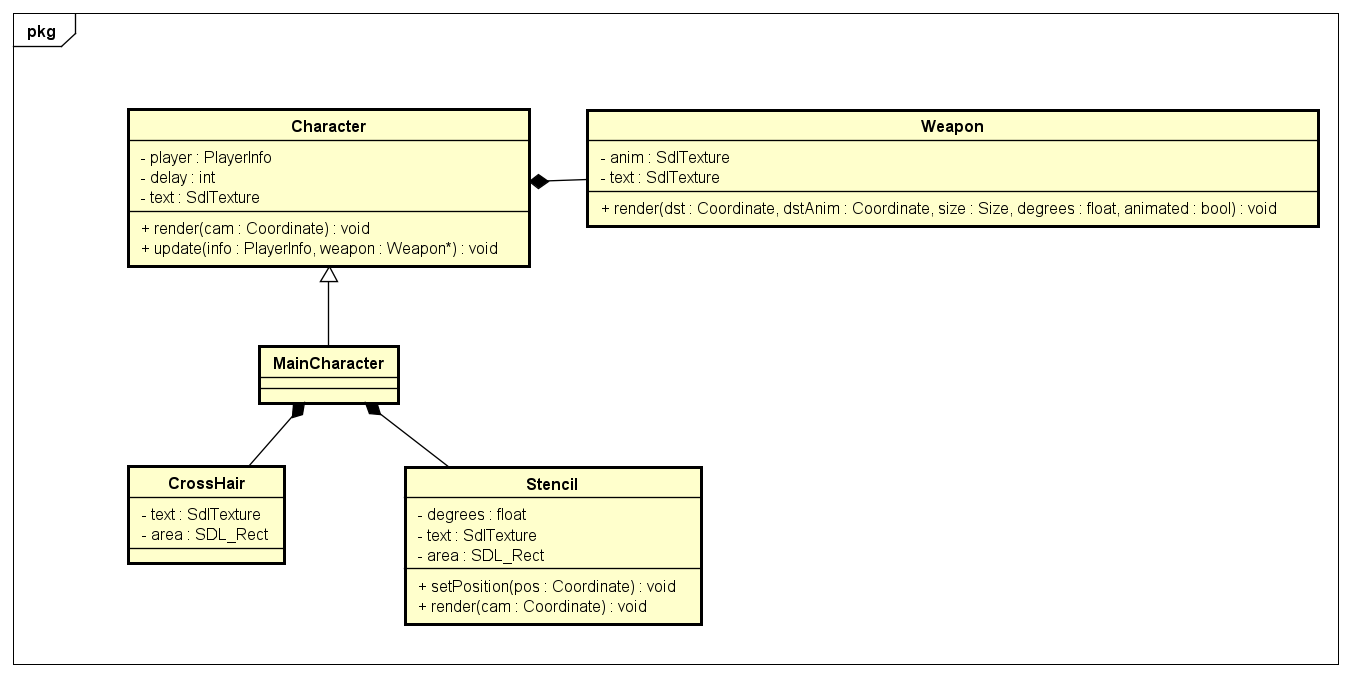
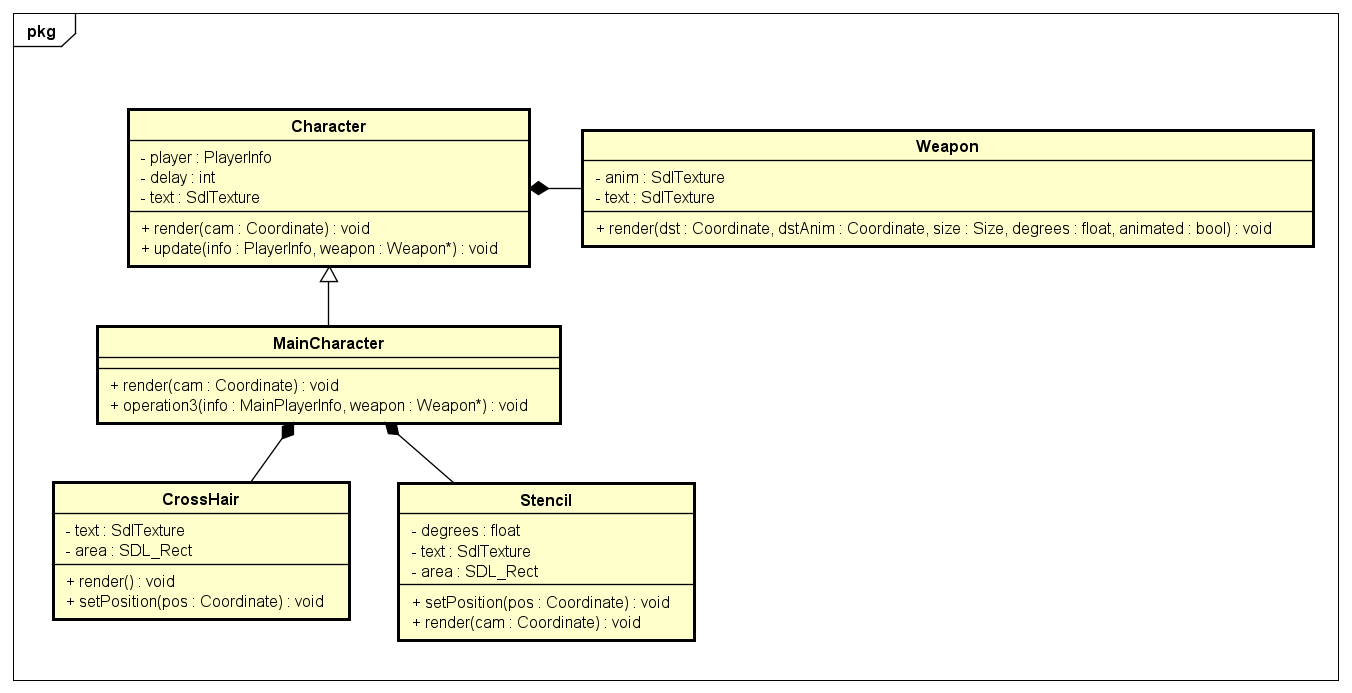
actualizado diagrama cliente

Changed region(s): [[0.0932, 0.1551, 0.9941, 0.4343], [0.0311, 0.4653, 0.5281, 0.9306], [0.0, 0.031, 0.0621, 0.0931]]

diff --git a/informe/DocumentaciónTécnica.md b/informe/DocumentaciónTécnica.md
@@ -74,11 +74,11 @@ Se encarga de la representación básica de un jugador en el motor gráfico. Per
 
 ### Weapon
 
-Esta clase nos permite la representación gráfica de las armas, independientemente del tipo, con sus respectiva animación.
+Esta clase nos permite la representación gráfica de las armas, independientemente del tipo, con su respectiva animación.
 
 ### MainCharacter
 
-Es una clase que hereda de la clase `Character`, la cual difiera de esta, ya que `MainCharacter` cuenta con un `Stencil` y una `CrossHair`. Es decir, contiene más información que la clase `Character`, y permite lo mismo.
+Es una clase que hereda de la clase `Character`, ya que `MainCharacter` cuenta con un `Stencil` y una `CrossHair`, que un `Character` por si solo no. Es decir, contiene más información, y permite lo mismo.
 
 ### Stencil
 
